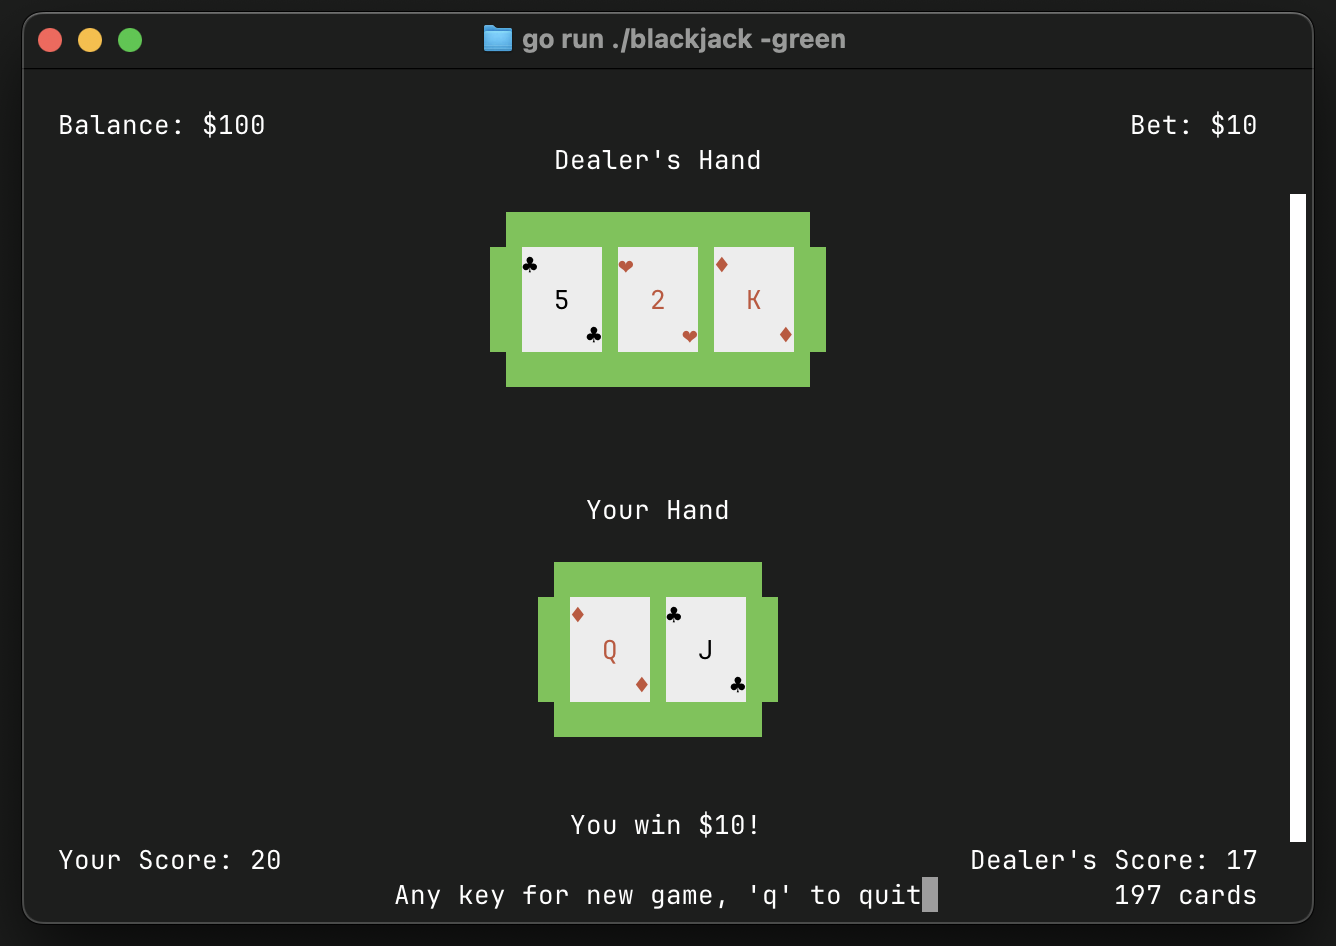
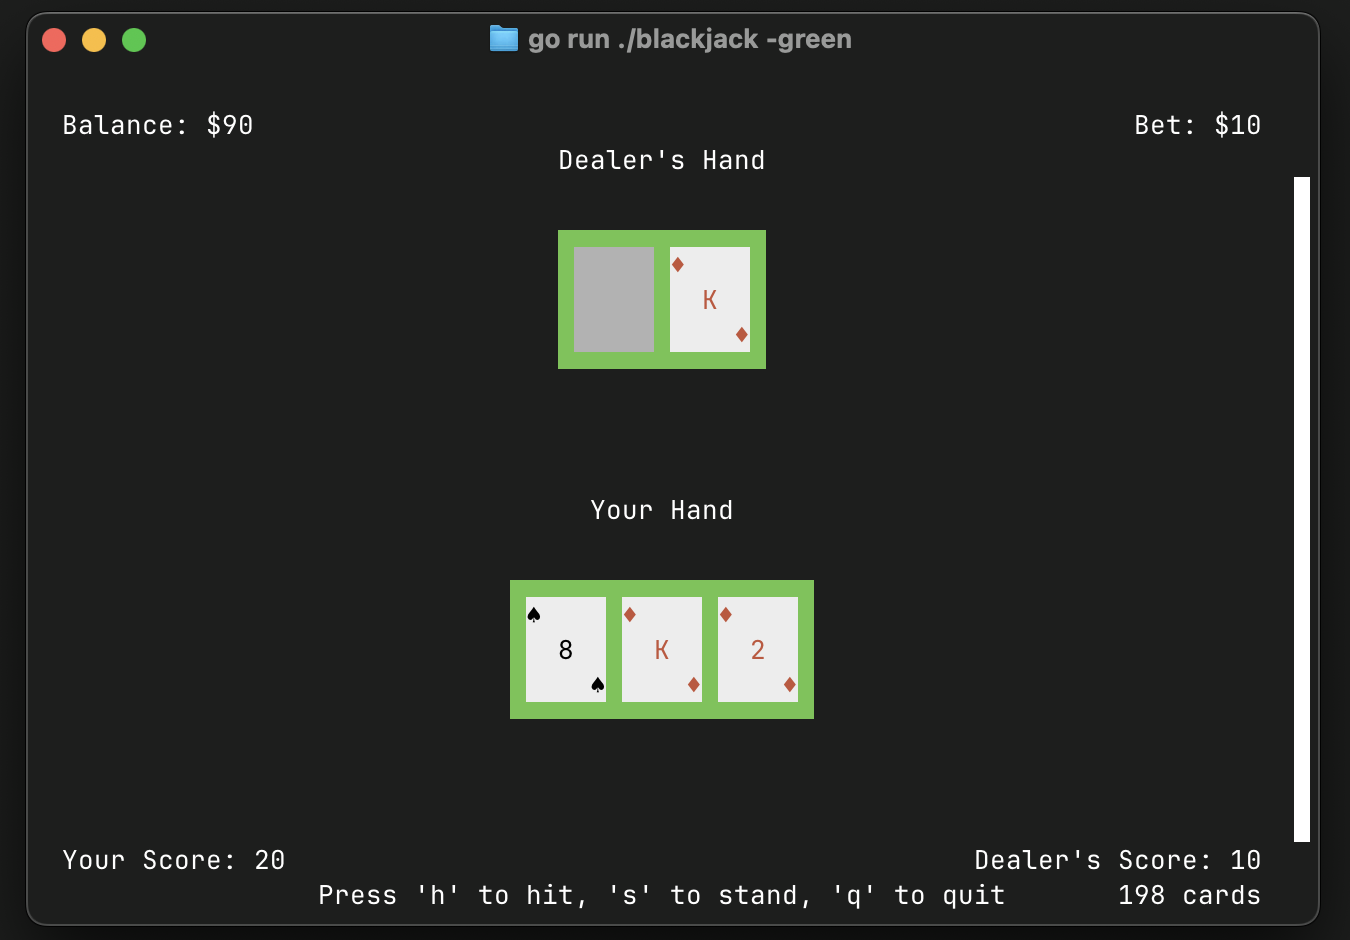
Use half pixels and inverse color by default for thin border

diff --git a/blackjack/blackjack.go b/blackjack/blackjack.go
@@ -42,6 +42,8 @@ type Game struct {
 	balance     int
 	bet         int
 	borderColor string
+	borderBG    string
+	wideBorder  bool
 }
 
 // initDeck initializes a new shuffled deck.
@@ -89,7 +91,9 @@ const (
 // drawCardOnScreen draws a card on the screen at the specified position.
 func (g *Game) drawCardOnScreen(x, y int, card Card, hidden bool) {
 	// Draw card border: mostly redundant with the outer one except for the middle in between cards
-	g.ap.DrawColoredBox(x-1, y-1, cardWidth+1, cardHeight+1, g.borderColor, false)
+	if g.borderColor != "" {
+		g.ap.DrawColoredBox(x-1, y-1, cardWidth+1, cardHeight+1, g.borderColor, false)
+	}
 	// Draw card content
 	g.ap.MoveCursor(x, y)
 	if hidden {
@@ -124,12 +128,15 @@ func (g *Game) drawCardOnScreen(x, y int, card Card, hidden bool) {
 
 // drawHand draws a hand of cards at the specified position.
 func (g *Game) drawHand(x, y int, cards []Card, hideFirst bool) {
-	// Add extra bars vertically so space around cards is even on height vs width (as pixels are 2x tall than wide)
-	g.ap.DrawColoredBox(x-1, y-1, cardWidth*len(cards)+1, cardHeight+1, g.borderColor, true)
 	for i, card := range cards {
 		hidden := hideFirst && i == 0
 		pos := x + i*cardWidth
 		g.drawCardOnScreen(pos, y, card, hidden)
+	}
+	// For wide mode: erase top/bottom thin border and add extra bars
+	// vertically so space around cards is even on height vs width (as pixels are 2x tall than wide)
+	if g.borderColor != "" && g.wideBorder {
+		g.ap.DrawColoredBox(x-1, y-1, cardWidth*len(cards)+1, cardHeight+1, g.borderBG, true)
 	}
 }
 
@@ -367,7 +374,9 @@ func main() {
 	betAmount := flag.Int("bet", 10, "Bet amount in `dollars`")
 	numDecks := flag.Int("decks", 4, "Number of decks to use")
 	fps := flag.Float64("fps", 60, "Frames per second (for resize/refreshes/animations)")
-	greenFlag := flag.Bool("green", false, "Use green instead of dark grey around the cards")
+	greenFlag := flag.Bool("green", false, "Use green instead of black around the cards")
+	noBorder := flag.Bool("no-border", false, "Don't draw the border at all around the cards")
+	wideBorder := flag.Bool("wide", false, "Draw a wide border around the cards")
 	cli.Main()
 
 	ap := ansipixels.NewAnsiPixels(*fps)
@@ -382,10 +391,20 @@ func main() {
 		state:       StatePlayerTurn,
 		balance:     *initialBalance,
 		bet:         *betAmount,
-		borderColor: ansipixels.DarkGrayBG,
+		borderColor: ansipixels.Black,
+		borderBG:    ansipixels.BlackBG,
+		wideBorder:  *wideBorder,
+	}
+	if *wideBorder {
+		game.borderColor = ansipixels.BlackBG
 	}
 	if *greenFlag {
-		game.borderColor = ansipixels.GreenBG
+		game.borderColor = ansipixels.Green
+		game.borderBG = ansipixels.GreenBG
+	}
+	if *noBorder {
+		game.borderColor = ""
+		game.borderBG = ""
 	}
 	game.initDeck(*numDecks)
 

diff --git a/ansipixels/ansipixels.go b/ansipixels/ansipixels.go
@@ -389,27 +389,36 @@ func (ap *AnsiPixels) ShowCursor() {
 }
 
 func (ap *AnsiPixels) DrawSquareBox(x, y, w, h int) {
-	ap.DrawBox(x, y, w, h, SquareTopLeft, Horizontal, SquareTopRight, Vertical, SquareBottomLeft, SquareBottomRight, false)
+	ap.DrawBox(x, y, w, h, SquareTopLeft, Horizontal, SquareTopRight, Vertical, SquareBottomLeft, Horizontal, SquareBottomRight, false)
 }
 
 func (ap *AnsiPixels) DrawRoundBox(x, y, w, h int) {
-	ap.DrawBox(x, y, w, h, RoundTopLeft, Horizontal, RoundTopRight, Vertical, RoundBottomLeft, RoundBottomRight, false)
+	ap.DrawBox(x, y, w, h, RoundTopLeft, Horizontal, RoundTopRight, Vertical, RoundBottomLeft, Horizontal, RoundBottomRight, false)
 }
 
 // Draw a colored box with the given background color and double width option which means extra bars on the left and right.
 func (ap *AnsiPixels) DrawColoredBox(x, y, w, h int, color string, doubleWidth bool) {
-	ap.DrawBox(x, y, w, h, color+" ", " ", " ", " ", " ", " "+Reset, doubleWidth)
+	topHorizontal := Inverse + string(TopHalfPixel)
+	bottomHorizontal := string(BottomHalfPixel)
+	vertical := " "
+	if doubleWidth {
+		topHorizontal = " "
+		bottomHorizontal = " "
+		vertical = " "
+	}
+	ap.DrawBox(x, y, w, h, color+topHorizontal, topHorizontal, topHorizontal, vertical,
+		bottomHorizontal, bottomHorizontal, bottomHorizontal+Reset, doubleWidth)
 }
 
 func (ap *AnsiPixels) DrawBox(x, y, w, h int,
-	topLeft, horizontal, topRight,
-	vertical, bottomLeft, bottomRight string,
+	topLeft, horizontalTop, topRight,
+	vertical, bottomLeft, horizontalBottom, bottomRight string,
 	doubleWidth bool,
 ) {
 	if y >= 0 {
 		ap.MoveCursor(x, y)
 		ap.WriteString(topLeft)
-		ap.WriteString(strings.Repeat(horizontal, w-2))
+		ap.WriteString(strings.Repeat(horizontalTop, w-2))
 		ap.WriteString(topRight)
 	}
 	if doubleWidth {
@@ -437,9 +446,9 @@ func (ap *AnsiPixels) DrawBox(x, y, w, h int,
 	}
 	ap.MoveCursor(x, y+h-1)
 	ap.WriteString(bottomLeft)
-	ap.WriteString(strings.Repeat(horizontal, w-3))
+	ap.WriteString(strings.Repeat(horizontalBottom, w-3))
 	if x+w <= ap.W {
-		ap.WriteString(horizontal + bottomRight)
+		ap.WriteString(horizontalBottom + bottomRight)
 	} else {
 		ap.WriteString(topRight) // used by brick in the top right corner.
 	}

diff --git a/ansipixels/codes.go b/ansipixels/codes.go
@@ -46,6 +46,9 @@ const (
 	BrightCyanBG   = "\033[106m"
 	WhiteBG        = "\033[107m"
 
+	// Inverse fg/bg colors
+	Inverse = "\033[7m"
+
 	// Select colors from the 256 colors set that are missing from.
 	Orange = "\033[38;5;214m"
 

diff --git a/blackjack/README.md b/blackjack/README.md
@@ -16,7 +16,7 @@ go run fortio.org/terminal/blackjack@latest
 ## Usage
 
 ```
-blackjack 0.25.0 usage:
+blackjack 0.35.5 usage:
 	blackjack [flags]
 or 1 of the special arguments
 	blackjack {help|envhelp|version|buildinfo}
@@ -30,5 +30,9 @@ flags:
   -fps float
         Frames per second (for resize/refreshes/animations) (default 60)
   -green
-        Use green instead of dark grey around the cards
+        Use green instead of black around the cards
+  -no-border
+        Don't draw the border at all around the cards
+  -wide
+        Draw a wide border around the cards
 ```
